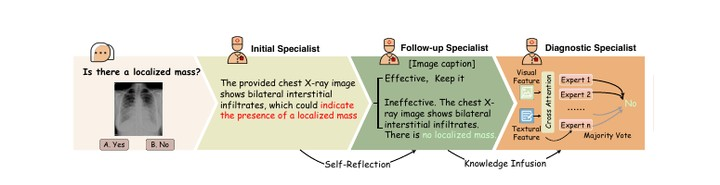
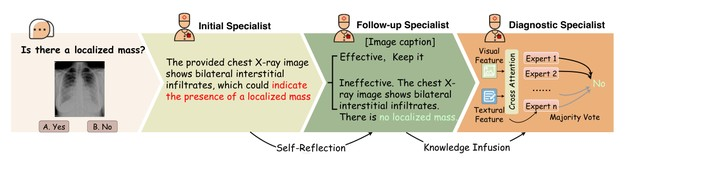
Restructure publications into 2 categories with full thumbnails
- Replace SCC/KPL/MedCoT thumbs with high-res local figures
  (scc-page/static/images/fig1.png, fig_kpl.png, fig_medcot_pipeline.png)
- Add real IFCoT thumb (ifcot-page/static/images/fig2_pipeline.png)
- Add real MindAdapter thumb (mindadapter-page/static/images/fig2_overview.png)
- Add real Patterns thumb (Figure 4 from arxiv 2203.05784)
- Add new 3D-RAD NeurIPS 2026 entry with teaser figure
- Reorganize into two categories:
  · Trustworthy VLM Reasoning: SCC, MedCoT, KPL, IFCoT
  · Multimodal Medical Image Processing: 3D-RAD, Patterns, MindAdapter

diff --git a/index.html b/index.html
@@ -108,17 +108,17 @@
         </p>
 
         <hr class="pub-divider">
-        <p class="pub-category">Medical Vision&ndash;Language Reasoning</p>
+        <p class="pub-category">Trustworthy VLM Reasoning &nbsp;<span style="color:#888;font-weight:400;font-size:14px;">·&nbsp; 可信视觉&ndash;语言模型推理</span></p>
 
         <div class="publication-container">
-          <img src="img/thumbs/kpl.jpg" alt="KPL">
+          <img src="img/thumbs/scc.jpg" alt="SCC">
           <div class="pub-text">
-            <span class="pub-venue">[AAAI 2025 Oral]</span>
-            Knowledge Proxy Learning: Toward Zero-Shot Vision&ndash;Language Mining for Medicine.<br>
-            <span class="me">Jiaxiang Liu</span>&#42;, Tianxiang Hu&#42;, Yan Hu, Jiawei Du, Huimin Xiong, Jiang Liu, Joey Tianyi Zhou&#35;, Zuozhu Liu&#35;.
+            <span class="pub-venue">[ICML 2026]</span>
+            Semantic Consistency Constraint: A Training-Free Defense for CLIP Against Adversarial Attacks.<br>
+            Yuan Wang&#42;, Songtao Jiang&#42;, <span class="me">Jiaxiang Liu</span>, Haoxiang Xia, Yuan Wang, Zuozhu Liu.
             <div class="pub-links">
-              <a href="https://arxiv.org/abs/2501.11231">Paper</a>
-              <a href="https://arxiv.org/pdf/2501.11231">PDF</a>
+              <a href="https://arxiv.org/abs/2510.22785">Paper</a>
+              <a href="https://arxiv.org/pdf/2510.22785">PDF</a>
             </div>
           </div>
         </div>
@@ -137,7 +137,20 @@
         </div>
 
         <div class="publication-container">
-          <div class="pub-thumb-empty">IEEE TCSVT<br>(IF 11.1)</div>
+          <img src="img/thumbs/kpl.jpg" alt="KPL">
+          <div class="pub-text">
+            <span class="pub-venue">[AAAI 2025 Oral]</span>
+            Knowledge Proxy Learning: Toward Zero-Shot Vision&ndash;Language Mining for Medicine.<br>
+            <span class="me">Jiaxiang Liu</span>&#42;, Tianxiang Hu&#42;, Yan Hu, Jiawei Du, Huimin Xiong, Jiang Liu, Joey Tianyi Zhou&#35;, Zuozhu Liu&#35;.
+            <div class="pub-links">
+              <a href="https://arxiv.org/abs/2501.11231">Paper</a>
+              <a href="https://arxiv.org/pdf/2501.11231">PDF</a>
+            </div>
+          </div>
+        </div>
+
+        <div class="publication-container">
+          <img src="img/thumbs/ifcot.jpg" alt="IFCoT">
           <div class="pub-text">
             <span class="pub-venue">[IEEE TCSVT 2026]</span>
             IFCoT: Insights Fusion Chain of Thought for Multimodal Reasoning in LLMs.<br>
@@ -149,25 +162,23 @@
         </div>
 
         <hr class="pub-divider">
-        <p class="pub-category">Brain Decoding</p>
+        <p class="pub-category">Multimodal Medical Image Processing &nbsp;<span style="color:#888;font-weight:400;font-size:14px;">·&nbsp; 多模态医学影像处理</span></p>
 
         <div class="publication-container">
-          <div class="pub-thumb-empty">KDD 2026<br>AI4Sciences</div>
+          <img src="img/thumbs/3drad.jpg" alt="3D-RAD">
           <div class="pub-text">
-            <span class="pub-venue">[KDD 2026]</span>
-            MindAdapter: Few-Shot Parameter-Efficient Residual Calibration of Cross-Subject Brain-to-Visual Decoding Models.<br>
-            <span class="me">Jiaxiang Liu</span>, Jiawei Du, Xupeng Chen, Guoqi Li, Jiang Cai, Simon Fong, Mingkun Xu.
+            <span class="pub-venue">[NeurIPS 2026]</span>
+            3D-RAD: A Comprehensive 3D Radiology Med-VQA Dataset with Multi-Temporal Analysis and Diverse Diagnostic Tasks.<br>
+            Xiaotang Gai, <span class="me">Jiaxiang Liu</span>&#35;, Yu Li, Zijie Meng, Jian Wu, Zuozhu Liu.
             <div class="pub-links">
-              <a href="https://jxliu-ai.github.io/MindAdapter/">Project</a>
+              <a href="https://arxiv.org/abs/2506.11147">Paper</a>
+              <a href="https://arxiv.org/pdf/2506.11147">PDF</a>
             </div>
           </div>
         </div>
 
-        <hr class="pub-divider">
-        <p class="pub-category">Clinical 3D &amp; Multimodal Fusion</p>
-
         <div class="publication-container">
-          <div class="pub-thumb-empty">Cell Press<br>Patterns<br>(2023)</div>
+          <img src="img/thumbs/patterns.jpg" alt="Patterns">
           <div class="pub-text">
             <span class="pub-venue">[Cell Press Patterns 2023]</span>
             Deep Learning-Enabled 3D Multimodal Fusion of Cone-Beam CT and Intraoral Mesh Scans for Clinically Applicable Tooth-Bone Reconstruction.<br>
@@ -178,18 +189,14 @@
           </div>
         </div>
 
-        <hr class="pub-divider">
-        <p class="pub-category">Adversarial Robustness for CLIP</p>
-
         <div class="publication-container">
-          <img src="img/thumbs/scc.jpg" alt="SCC">
+          <img src="img/thumbs/mindadapter.jpg" alt="MindAdapter">
           <div class="pub-text">
-            <span class="pub-venue">[ICML 2026]</span>
-            Semantic Consistency Constraint: A Training-Free Defense for CLIP Against Adversarial Attacks.<br>
-            Yuan Wang&#42;, Songtao Jiang&#42;, <span class="me">Jiaxiang Liu</span>, Haoxiang Xia, Yuan Wang, Zuozhu Liu.
+            <span class="pub-venue">[KDD 2026]</span>
+            MindAdapter: Few-Shot Parameter-Efficient Residual Calibration of Cross-Subject Brain-to-Visual Decoding Models.<br>
+            <span class="me">Jiaxiang Liu</span>, Jiawei Du, Xupeng Chen, Guoqi Li, Jiang Cai, Simon Fong, Mingkun Xu.
             <div class="pub-links">
-              <a href="https://arxiv.org/abs/2510.22785">Paper</a>
-              <a href="https://arxiv.org/pdf/2510.22785">PDF</a>
+              <a href="https://jxliu-ai.github.io/MindAdapter/">Project</a>
             </div>
           </div>
         </div>